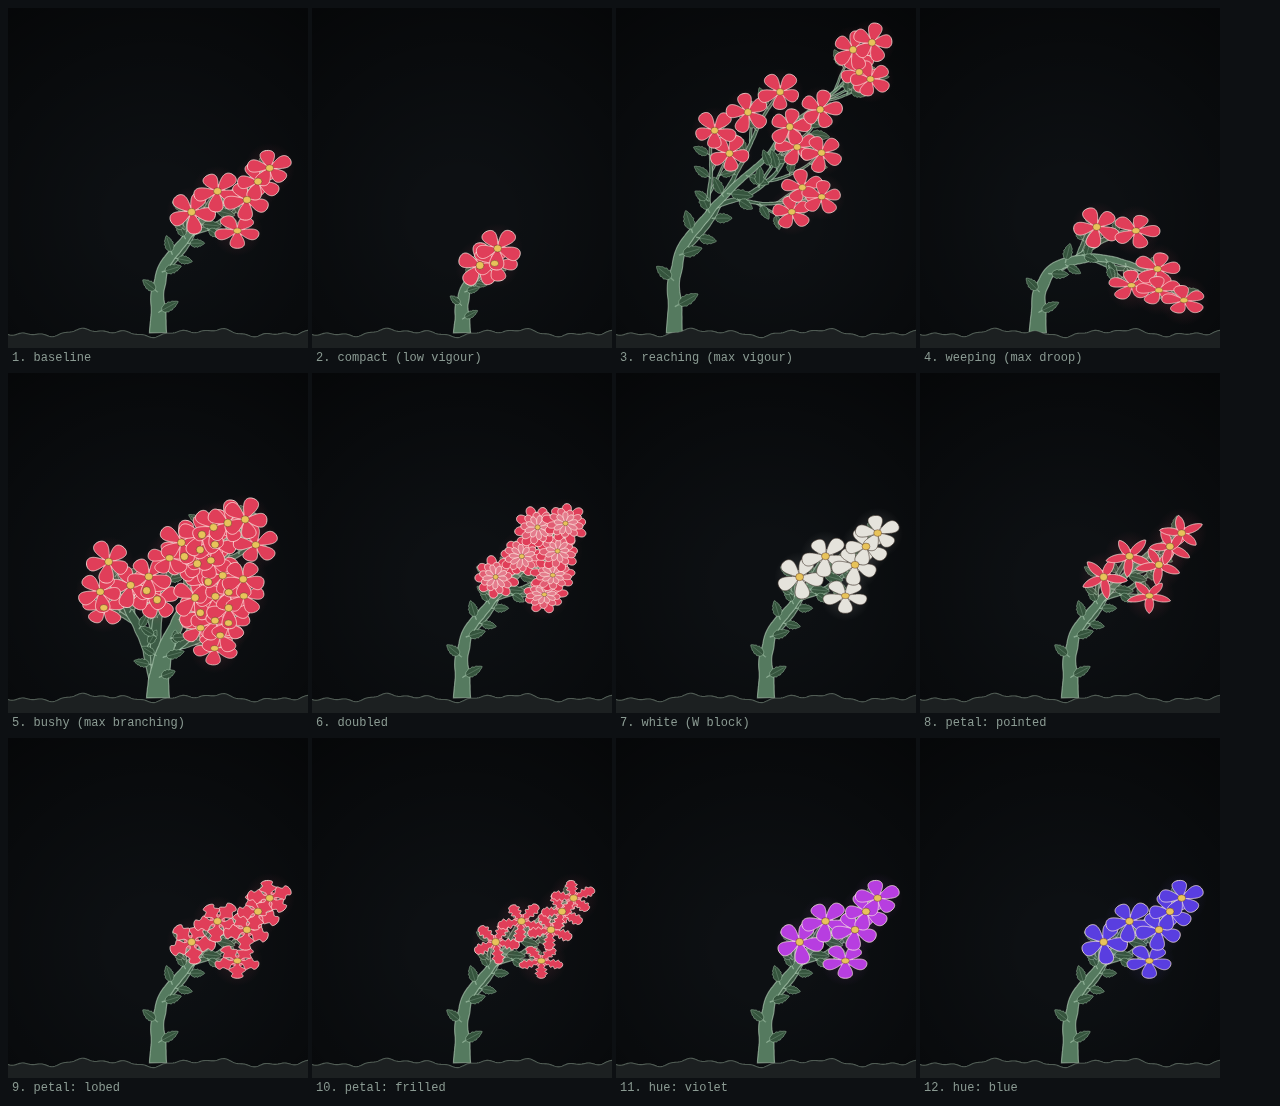
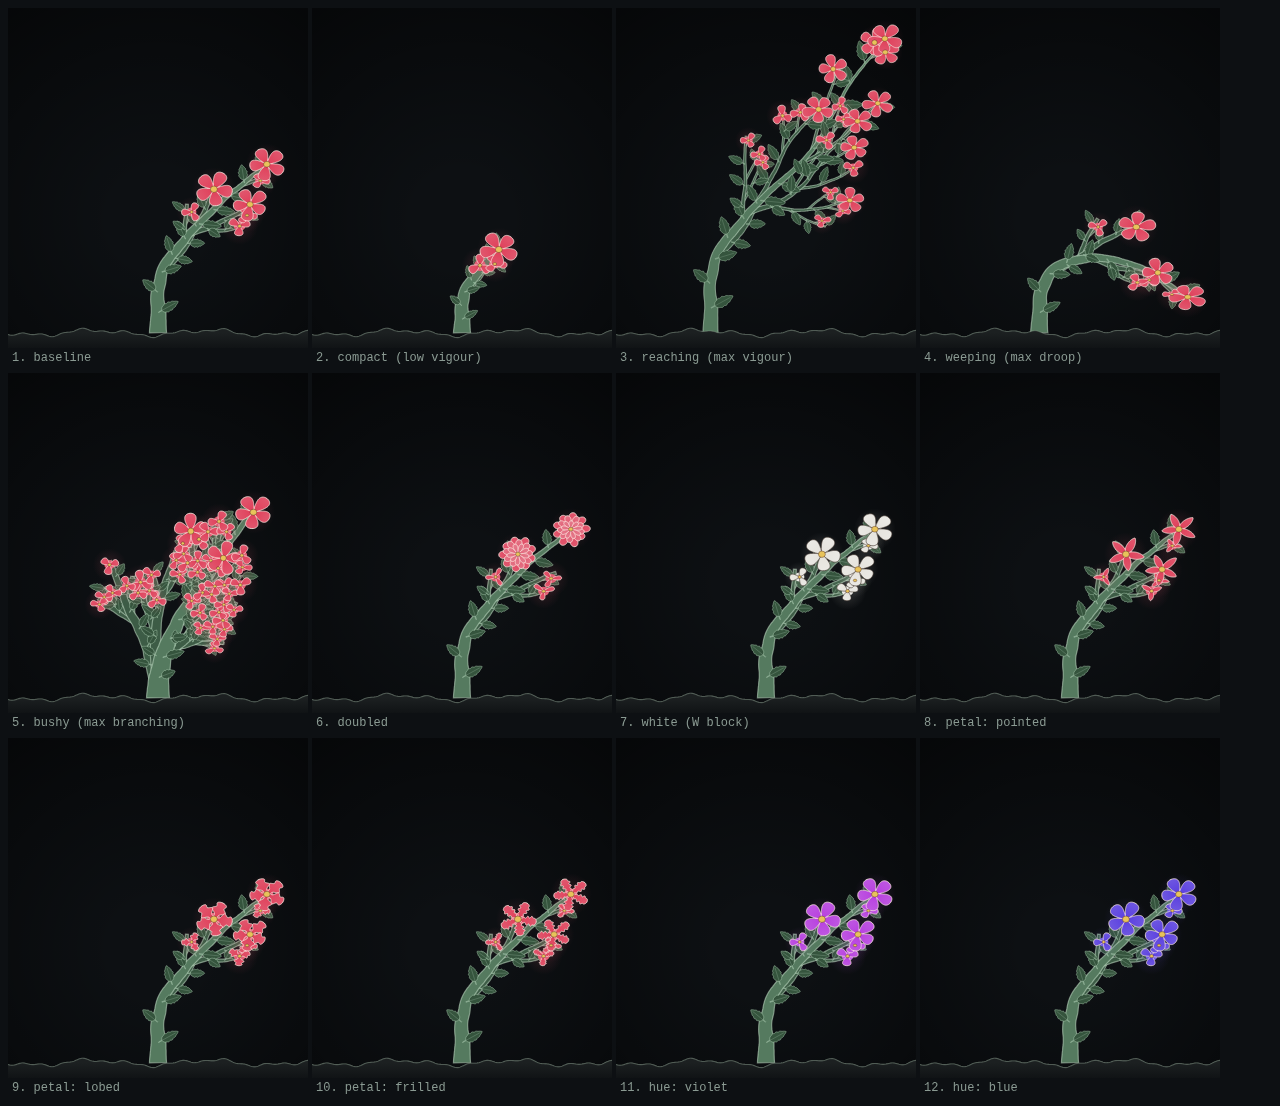
fix(garden): soil slab, buried divots, and an unwarned destructive drop
Three defects visible only in the rendered frame:

- The soil read as a flat grey slab across the bottom quarter — the same "looks
  like a caption strip" failure the irregular crest was introduced to fix,
  returning the moment the band grew tall enough to seat the seed tray. Fixed
  with a vertical gradient: earth falls off with depth instead of being a
  rectangle.
- Empty-plot divots were drawn BEFORE paintSoil and painted over, so the one
  affordance telling the player where a seed can go was invisible. Now drawn
  after, as a dark hollow with a lit lower lip rather than a 0.22-alpha outline
  that was present and unseeable — the identical mistake the stem contour made
  against the dark ground.
- The drop-target ring looked the same over an occupied plot as over an empty
  one, so the game's only destructive verb was indistinguishable from its safe
  one. Occupied plots now ring amber and the hint says REPLACE.

Canvas is 470 tall, not 520: the plants are ~250px, so at the old size the
headroom above them was larger than the plants themselves.

Also records the Milestone 3 outcome in the spec, including the harness lesson —
a mutation run reported three surviving mutants that were all artefacts of the
driver crashing on startup, because `grep -c '^FAIL'` counts zero for a crash
exactly as it does for a pass.

151 tests, tsc clean, all verb checks pass, lookdev unaffected.

Claude-Session: https://claude.ai/code/session_01VfiG5tCDpmCmCD7qx7CSzA

diff --git a/garden/garden.ts b/garden/garden.ts
@@ -27,12 +27,22 @@ import {
 import type { Vec2 } from "../src/types";
 
 const W = 1180;
-const H = 560;
-/** Deep enough that the tray rests ON the dirt rather than floating below the frame. */
-const SOIL = 452;
+/**
+ * Sized to what the plants actually occupy, not to a round number. At 520 with the soil at
+ * 440 the tallest founder topped out around 40% of the frame and the upper 60% was empty
+ * sky — the growth engine's plants are roughly 250px tall, so the headroom above them was
+ * larger than the plants themselves.
+ */
+const H = 470;
+/**
+ * Deep enough that the tray rests ON the dirt rather than floating below the frame, shallow
+ * enough that the band does not become a slab. At 108px it read as a caption strip; the
+ * gradient in paintSoil does the rest of the work.
+ */
+const SOIL = 390;
 const PLOTS = 6;
-/** Founders occupy half the bed. The empty plots are the invitation to plant something. */
-const FOUNDERS = 3;
+/** Two thirds sown. The empty plots are the invitation to plant something. */
+const FOUNDERS = 4;
 /** Ticks per frame. Unhurried without being tedious. */
 const SPEED = 1.4;
 
@@ -157,10 +167,17 @@ canvas.addEventListener("pointerleave", () => {
 
 function paintPlotMarker(x: number): void {
   // A shallow divot: enough to read as "something could go here", not enough to look like UI.
+  // Drawn as a dark hollow with a lit lower lip — the same trick the soil crest uses. A bare
+  // outline at 0.22 alpha was technically present and effectively invisible against the
+  // band, which is the identical mistake the stem contour made against the dark ground.
   ctx.beginPath();
-  ctx.ellipse(x, SOIL + 7, 15, 4.2, 0, 0, Math.PI * 2);
-  ctx.strokeStyle = "rgba(150,170,152,0.22)";
-  ctx.lineWidth = 1;
+  ctx.ellipse(x, SOIL + 9, 16, 4.6, 0, 0, Math.PI * 2);
+  ctx.fillStyle = "rgba(0,0,0,0.32)";
+  ctx.fill();
+  ctx.beginPath();
+  ctx.ellipse(x, SOIL + 9, 16, 4.6, 0, 0.15 * Math.PI, 0.85 * Math.PI);
+  ctx.strokeStyle = "rgba(168,190,170,0.42)";
+  ctx.lineWidth = 1.1;
   ctx.stroke();
 }
 
@@ -174,25 +191,40 @@ function paintSeed(x: number, y: number, lit: boolean): void {
   ctx.stroke();
 }
 
-function paintHalo(at: Vec2, r: number, alpha: number): void {
+const RING_PLANT = "232,246,234";
+/** Amber: this drop REPLACES a living plant. */
+const RING_REPLACE = "236,196,116";
+
+function paintHalo(at: Vec2, r: number, alpha: number, rgb = RING_PLANT): void {
   ctx.beginPath();
   ctx.arc(at.x, at.y, r, 0, Math.PI * 2);
-  ctx.strokeStyle = `rgba(232,246,234,${alpha})`;
+  ctx.strokeStyle = `rgba(${rgb},${alpha})`;
   ctx.lineWidth = 1.4;
   ctx.stroke();
+}
+
+/** The plot a seed drag would land in, or null. Shared by the ring and the hint text. */
+function dropTarget(): number | null {
+  if (drag?.kind !== "seed") return null;
+  const plot = plotAt(garden, pointer);
+  return plot !== null && pointer.y < SOIL + 24 ? plot : null;
 }
 
 function frame(): void {
   paintStage(ctx, W, H, SOIL);
 
-  for (const [i, plot] of garden.plots.entries()) {
-    if (!plot.occupant) paintPlotMarker(plotXs[i]!);
-  }
   for (const plot of garden.plots) {
     if (plot.occupant)
       paintPlant(ctx, plot.occupant.plant, now - plot.occupant.plantedAt);
   }
   paintSoil(ctx, W, H, SOIL);
+
+  // AFTER the soil, not before. Drawn first, every divot was painted over by the soil band
+  // and the empty plots looked identical to bare ground — so the one affordance telling the
+  // player where a seed can go was invisible.
+  for (const [i, plot] of garden.plots.entries()) {
+    if (!plot.occupant) paintPlotMarker(plotXs[i]!);
+  }
 
   // Affordance: ring whatever the pointer could act on right now.
   const hover = drag ? null : bloomAt(garden, pointer, now);
@@ -219,10 +251,17 @@ function frame(): void {
 
     if (drag.kind === "seed") {
       paintSeed(pointer.x, pointer.y, true);
-      // Show which plot would receive it, so a drop is never a guess.
-      const plot = plotAt(garden, pointer);
-      if (plot !== null && pointer.y < SOIL + 24)
-        paintHalo({ x: plotXs[plot]!, y: SOIL + 6 }, 20, 0.6);
+      // Show which plot would receive it, so a drop is never a guess — and in WHICH colour,
+      // because dropping onto an occupied plot destroys a living plant. An identical ring for
+      // both made the one destructive verb in the game indistinguishable from the safe one.
+      const plot = dropTarget();
+      if (plot !== null)
+        paintHalo(
+          { x: plotXs[plot]!, y: SOIL + 6 },
+          20,
+          0.65,
+          garden.plots[plot]!.occupant ? RING_REPLACE : RING_PLANT,
+        );
     } else {
       const onto = bloomAt(garden, pointer, now);
       if (onto && onto.plotIndex !== drag.plotIndex)
@@ -245,7 +284,12 @@ function frame(): void {
 }
 
 function hint(): string {
-  if (drag?.kind === "seed") return "drop it on a plot to plant it";
+  if (drag?.kind === "seed") {
+    const plot = dropTarget();
+    if (plot !== null && garden.plots[plot]!.occupant)
+      return "drop here to REPLACE the plant growing in this plot";
+    return "drop it on a plot to plant it";
+  }
   if (drag?.kind === "bloom") return "drop it on another flower to cross them";
   if (garden.tray.length === 0)
     return "click a flower for a seed · drag one flower onto another to cross";

diff --git a/src/render/stage.ts b/src/render/stage.ts
@@ -29,6 +29,8 @@ export const PALETTE = {
   stemHi: "#557a5f",
   stemRim: "rgba(196,224,201,0.55)",
   soil: "#1c2021",
+  /** Bottom of the soil gradient — earth falls off with depth rather than reading as a slab. */
+  soilDeep: "#101315",
   soilRim: "rgba(150,170,152,0.34)",
   stamen: "#e8c35a",
   leaf: "#35543d",
@@ -195,7 +197,15 @@ export function paintSoil(
   for (let x = 1; x <= w; x++) ctx.lineTo(x, crest(x));
   ctx.lineTo(w, h);
   ctx.closePath();
-  ctx.fillStyle = PALETTE.soil;
+  // A vertical gradient, not a flat fill. A thin band gets away with one colour; the deep
+  // band the garden needs (to seat the seed tray on the dirt) read as a grey slab across the
+  // bottom quarter of the frame — the same "this looks like a caption strip" failure the
+  // irregular crest was introduced to fix, returning as soon as the band got tall. Falling
+  // off toward the bottom reads as depth of earth instead of as a rectangle.
+  const grad = ctx.createLinearGradient(0, soilTop, 0, h);
+  grad.addColorStop(0, PALETTE.soil);
+  grad.addColorStop(1, PALETTE.soilDeep);
+  ctx.fillStyle = grad;
   ctx.fill();
 
   // Lit crest line: the ground gets the same light-rim treatment as the plant, so it reads

diff --git a/docs/superpowers/specs/2026-07-29-heirloom-modern-seed-design.md b/docs/superpowers/specs/2026-07-29-heirloom-modern-seed-design.md
@@ -176,7 +176,7 @@ deliberately outside the genome-determined structure.
    on 2026-07-30 — see §13.** Leaves were pulled into this milestone on 2026-07-29.
 2. **Genome logic, TDD** — `loci`, `genome`, `inherit`, `mutate`, `express`, `serialize`. Pure, no
    rendering. **DONE 2026-07-30 — see §14.**
-3. **Wiring** — genes → growth; garden plots; the four verbs. _Partly done: the garden bed now
+3. **Wiring** — genes → growth; garden plots; the four verbs. **DONE 2026-07-30 — see §15.**
    grows from `express(genome)` seeded by `genomeSeed(genome)`. The four verbs are not built._
 4. **Accumulation** — retirement, background compositing, depth-of-field.
 5. **Sharing and persistence** — URL round-trip, localStorage.
@@ -326,3 +326,50 @@ produced the bad output, so it cannot quietly stop discriminating. Eight such te
 
 `mutate` and `inherit` are correct but **unreached by any verb** — nothing in the UI breeds yet.
 Milestone 3 (the four verbs) is what exercises them against a player.
+
+## 15. Milestone 3 outcome — the four verbs
+
+Built 2026-07-30 at `c36bd78`. 151 tests, `tsc --noEmit` clean. Files: `src/game/{garden,hit}.ts`,
+a rewritten `garden/garden.ts`, and `tools/drive-verbs.mjs`.
+
+All four verbs of §4 are live. Which one fires is decided on RELEASE, from travel distance and
+what sits under the pointer — deciding on press would commit to a clone before knowing whether a
+cross was starting.
+
+State and hit-testing are pure and canvas-free, so the verbs are unit-testable without a DOM.
+`shownBlooms()` runs the **same occlusion cull as the renderer**, so the player can never click a
+flower that is not on screen.
+
+### Decisions taken here, with their rationale
+
+- **Dropping onto an occupied plot retires the occupant** rather than refusing. Refusing lets the
+  bed fill up permanently after six plants, and §11 rules out the alternative valve (death on a
+  timer). The displaced genome lands in `retired` — exactly Milestone 4's input. Because this is
+  the only destructive verb, the target ring turns **amber** and the hint says REPLACE.
+- **The tray evicts its oldest seed at capacity** instead of refusing a new one. §11 fixes the
+  tone as pressure-free; a full tray that rejects a cross turns a click into a failure state.
+- **`plotAt` derives its reach from the widest gap between adjacent plots**, not a constant. A
+  fixed 95px radius cannot tell "dropped between two plots" from "dropped nowhere near the
+  garden": at 200px spacing it opened a 10px dead band in every gap where a drop silently did
+  nothing. Both the fix and a control pinning the old behaviour are in the suite.
+
+### The harness lesson (worth more than the feature)
+
+A mutation run over the verb driver reported `clone disabled → 3 checks failed` and then
+`cross/plant/splice disabled → 0 checks failed`, which read as three surviving mutants. All three
+results were **meaningless**: the revert step had reset an uncommitted file, so the driver crashed
+on startup and printed nothing, and `grep -c '^FAIL'` counts zero for a crash exactly as it does
+for a pass.
+
+**A harness that reports "0 failures" must first prove it RAN.** The fixed version requires a
+sentinel line from the driver before it will trust a count, and runs an unmutated baseline first.
+Re-run that way, all five mutants (including `CLICK_SLOP = 0`) were killed.
+
+Second lesson, same incident: `git checkout -- <file>` reverts to the **committed** state, which
+for a file rewritten but not yet committed means discarding the whole rewrite. Commit before
+mutating, always.
+
+### Deferred
+
+Retired genomes accumulate in `garden.retired` and are never drawn — that is Milestone 4. Nothing
+persists across a reload, and the share codes are shown but not yet in the URL (Milestone 5).
